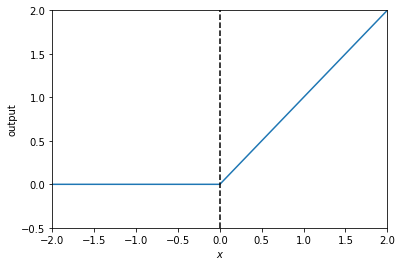
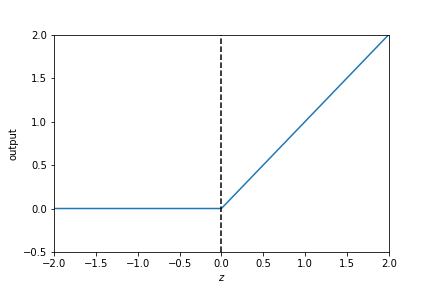
ANN text fixes

Changed region(s): [[0.0, 0.0301, 0.9851, 0.9624], [0.5075, 0.9624, 0.5373, 0.9925]]

diff --git a/ann.tex b/ann.tex
@@ -2,24 +2,25 @@
 \label{sec:artificial_neural_networks}
 % What is it
 Artificial neural networks are models that can approximate discrete-valued, real-valued and vector-valued functions.
-They are composed of simple units that can be activated by other units and can further activate multiple other units using connections of varying strength.
+They are composed of interconnected units that can activate others using connections of varying strength.
 %citation?
 Artificial neural networks are loosely inspired by biological neural networks, where these units are called neurons, which are connected by axons.\\
-The higher the strength, also called weight, between units, the more influence the unit has on the connected one. These strengths can be manually defined. However, thanks to a method called backpropagation, these weights can be learned systematically.
+The higher the strength, also called weight, of connections between units, the more influence the unit has on the next one. These strengths can be manually defined. However, thanks to a method called backpropagation, weights can be learned systematically.
 The combination of artificial neural networks and backpropagation led to successful applications, for example to recognize handwritten characters \citep{journals/neco/LeCunBDHHHJ89}, for face recognition \citep{cottrell1990extracting} and to recognize spoken words \citep{journals/nn/LangWH90}.
-However, they were also used for reinforcement learning, for example to learn to balance a pendulum \citep{anderson:ieeecsm89} or play Backgammon \citep{Tesauro:92}.
+However, early applications also include reinforcement learning, for example to learn to balance a pendulum \citep{anderson:ieeecsm89} or to play the game \textit{Backgammon} \citep{Tesauro:92}.
 
 \subsection{Basics} % (fold)
 \label{sub:basics}
-As said, artificial neural networks are made up of units. These units can be divided into layer, where the values of each layer are propagated to the next layer depending on connections with weights. These weights define the model. A simple artificial neural network is visualized in Figure~\ref{fig:ann}.
+As said, artificial neural networks are made up of units. These units can be divided into layers, where the values of each layer are propagated to the next layer depending on connections with weights. These weights define the model.
+Input units receive information that is available externally and provide information to other units. Output units are the opposite and receive information from the network itself and provide information externally. Hidden units both receive information from and provide information to units inside the network.\\
+A simple artificial neural network is visualized in Figure~\ref{fig:ann}.\\
 \begin{figure}[htb]
     \centering
     \includegraphics[width=.7\linewidth]{images/ann.png}
     \caption[An artificial neural network]{An artificial neural network with 3 input units, 4 hidden units and 2 output units. $w_{ih}$ and $w_{ho}$ are the weights for connections between respectively the input units and hidden units and between the hidden units and output units.}
     \label{fig:ann}
 \end{figure}
-Input units receive information that is available externally and provide information to other units. Output units are the opposite and receive information from the network itself and provide information externally. Hidden units both receive information from and provide information to units inside the network.\\
-As a non-input unit gets weighted activations from multiple units, these need to be combined to determine if the unit can be activated or not. This is done by applying a linear or non-linear function to the weighted sum.
+As a non-input unit gets weighted activations from multiple units, these need to be combined to determine if the unit can be activated or not. This is done by applying a linear or non-linear function, called an activation function, to the weighted sum.
 % subsection basics (end)
 
 \subsection{Activation functions} % (fold)
@@ -32,13 +33,15 @@ Or in vector format:
 \begin{equation}
     o = \phi(\overrightarrow{w} \cdot \overrightarrow{x})
 \end{equation}
+From hereon we will denote the weighted sum as $z \equiv \sum_i^n w_{ij} x_i \equiv \overrightarrow{w} \cdot \overrightarrow{x}$.\\
+
 Here, we will discuss the most commonly used activation functions.
 \subsubsection{Perceptron} % (fold)
 \label{ssub:perceptron}
 A perceptron, defined by \cite{Rosenblatt58}, gives as output either $-1$ or $+1$:
 \begin{equation}
-e_t(s) = \begin{cases}
-+1 & \text{if $\sum_i^n w_{ij} x_i > 0$}\\
+o(z) = \begin{cases}
++1 & \text{if $z> 0$}\\
 -1 & \text{otherwise}
 \end{cases}
 \end{equation}
@@ -50,22 +53,20 @@ A schematic using the perceptron function is shown in Figure~\ref{fig:perceptron
 \begin{figure}[htb]
     \centering
     \includegraphics[width=\linewidth]{images/activation_functions/perceptron.png}
-    \caption[Perceptron function applied to the inputs for a single unit]{Perceptron function applied to the inputs for a single unit.Source: \cite{Taspinar2016}.}
+    \caption[The perceptron function]{The perceptron function.}
     \label{fig:perceptron}
 \end{figure}
-
-For the definitions of the following activation functions, we will assume that $x$ is already the weighted sum of the input units.
 % subsubsection perceptron (end)
 
 \subsubsection{Sigmoid} % (fold)
 \label{ssub:sigmoid}
-A disadvantage of a perceptron is that it is not differentiable in the whole domain (specifically at $x=0$). Why this is a problem will become clear in Section~\ref{sub:gradient_descent_and_backpropagation}.\\
-To solve this problem, a sigmoid function is used. A sigmoid function is a differentiable function that is monotonically increasing approaches an asymptote for $x \to \pm\infty$ \citep{series/lncs/LeCunBOM12}. As a result, these can still separate the input space in 2 parts.\\
+A disadvantage of the perceptron function is that it is not differentiable in the whole domain (specifically at $x=0$). Why this is a problem will become clear in Section~\ref{sub:gradient_descent_and_backpropagation}.\\
+To solve this problem, a sigmoid function can be used. A sigmoid function is a differentiable function that is monotonically increasing and approaches an asymptote for $x \to \pm\infty$ \citep{series/lncs/LeCunBOM12}. As a result, these can still separate the input space in 2 parts.\\
 In the artificial neural networks domain, the \textit{sigmoid function} generally refers to a variation of the logistic function and is denoted by $\sigma(x)$. Its formula is:
 \begin{align}
     \begin{split}
-        f(x) &= \sigma(x)\\
-        &= \frac{1}{1+e^{-x}}
+        f(z) &= \sigma(z)\\
+        &= \frac{1}{1+e^{-z}}
     \end{split}
 \end{align}
 The behavior of this function is visualized in Figure~\ref{fig:sigmoid}.
@@ -79,13 +80,13 @@ The behavior of this function is visualized in Figure~\ref{fig:sigmoid}.
 
 \subsubsection{Hyperbolic tangent} % (fold)
 \label{ssub:hyperbolic_tangent}
-Another popular function and another kind of sigmoid function is the hyperbolic tangent function, also called \textit{tanh}. While the output of the sigmoid function ranges between $0$ and $1$, here the output ranges between $-1$ and $+1$, just like the 2 possible values of the perceptron.
+Another popular function and another kind of sigmoid function is the hyperbolic tangent function, also called \textit{tanh}. While the output of the sigmoid function ranges between $0$ and $+1$, here the output ranges between $-1$ and $+1$, just like the range (and the only possible values) of the perceptron.
 The formula of the hyperbolic tangent function, which can also be written in terms of the sigmoid function, is:
 \begin{align}
     \begin{split}
-        f(x) &= tanh(x)\\
-        &= 2\sigma(2x) - 1\\
-        &= \frac{e^{\frac{x}{2}} - e^{-\frac{x}{2}}}{e^{\frac{x}{2}} + e^{-\frac{x}{2}}}
+        f(z) &= tanh(z)\\
+        &= 2\sigma(2z) - 1\\
+        &= \frac{e^{\frac{z}{2}} - e^{-\frac{z}{2}}}{e^{\frac{z}{2}} + e^{-\frac{z}{2}}}
     \end{split}
 \end{align}
 This function is visualized in Figure~\ref{fig:tanh}.
@@ -99,14 +100,14 @@ This function is visualized in Figure~\ref{fig:tanh}.
 
 \subsubsection{Rectified Linear Unit} % (fold)
 \label{ssub:rectified_linear_unit}
-A rectified linear unit, also called a ReLU, is another popular and more recent activation function. It was first defined by \cite{conf/icml/NairH10}. The output is the identity function if $x \ge 0$ and $0$ otherwise:
+A rectified linear unit, also called a ReLU, is another popular and more recent activation function. It was first defined by \cite{conf/icml/NairH10}. The output is the identity function if $z \ge 0$ and $0$ otherwise:
 \begin{equation}
-    f(x) = \begin{cases}
-        x & \text{if $x \ge 0$}\\
+    f(z) = \begin{cases}
+        z & \text{if $z \ge 0$}\\
         0 & \text{otherwise}
         \end{cases}
 \end{equation}
-As can be seen, this function requires less computations than the sigmoid and hyperbolic tangent function. However, the derivative for $x<0$ is always $0$. Why this can be a problem is explained in Section~\ref{sub:gradient_descent_and_backpropagation}.\\
+As can be seen, this function requires less computations than the sigmoid and hyperbolic tangent function. However, the derivative for $z<0$ is always $0$. Why this can be a problem is also explained in Section~\ref{sub:gradient_descent_and_backpropagation}.\\
 The ReLU function is shown in Figure~\ref{fig:relu}.
 \begin{figure}[htb]
     \centering
@@ -115,11 +116,11 @@ The ReLU function is shown in Figure~\ref{fig:relu}.
     \label{fig:relu}
 \end{figure}
 
-To solve the problem of the derivative being zero at $x<0$, the Leaky ReLU was invented \citep{maas2013rectifier}. Here, instead of the output being zero for $x<0$, the output has a small slope, defined by a constant $\alpha$:
+To solve the problem of the derivative being zero at $z<0$, the Leaky ReLU was invented \citep{maas2013rectifier}. Here, instead of the output being zero for $z<0$, the output has a small slope, defined by a constant $\alpha$:
 \begin{equation}
-    f(x) = \begin{cases}
-        x & \text{if $x \ge 0$}\\
-        \alpha x & \text{otherwise}
+    f(z) = \begin{cases}
+        z & \text{if $z \ge 0$}\\
+        \alpha z & \text{otherwise}
         \end{cases}
 \end{equation}
 As can be seen, the derivative of this function is always non-zero.\\
@@ -135,24 +136,26 @@ An example of a Leaky ReLU is shown in Figure~\ref{fig:lrelu}.\\
 
 A variation of a Leaky ReLU, called Parametric Rectified Unit, also has a small slope for $x<0$, but with an $\alpha$ that can be learned \citep{journals/corr/HeZR015}. Other variants use a random slope for values below zero \citep{journals/corr/XuWCL15}, add noise a ReLU \citep{conf/icml/NairH10} or use an exponential function for values below zero \citep{journals/corr/ClevertUH15}:
 \begin{equation}
-    f(x) = \begin{cases}
-        x & \text{if $x \ge 0$}\\
-        \alpha (e^x-1) & \text{otherwise}
+    f(z) = \begin{cases}
+        z & \text{if $z \ge 0$}\\
+        \alpha (e^z-1) & \text{otherwise}
         \end{cases}
 \end{equation}
+
 %Optional: add softmax and maxout definitions
 
 \subsection{Gradient descent and backpropagation} % (fold)
 \label{sub:gradient_descent_and_backpropagation}
 %Also something about linearly separable?
 %Why no algebraic solution?
-If we choose the weights of our network correctly, we might succeed in the approximating a function.
-However, it is not always possible to separate the input space with our artificial neural network. In that case, we might want the best solution, e.g. one that has the least amount of errors in producing outputs w.r.t. the correct outputs, also called the target outputs. Furthermore, choosing the weights manually can be a tedious process.\\
+If we choose the weights of our network correctly, we might succeed in approximating a function.
+However, it is not always possible to separate the input space and have the right with our artificial neural network.
+In that case, we might want the best solution, e.g. one that has the least amount of errors in producing outputs w.r.t. the correct outputs, also called the target outputs. Furthermore, choosing the weights manually can be a tedious process.\\
 For these reasons, we use an algorithm called called backpropagation, which uses a variation of gradient descent. We will first discuss gradient descent as this provides the basis of the backpropagation algorithm.
 
 \subsubsection{Gradient descent} % (fold)
 \label{ssub:gradient_descent}
-In gradient descent, we search in the weight vector space, also called hypothesis space, to find weights that can approximate a function as best as possible. The tuple of the input and output of the target function is called a training example.
+In gradient descent, we search in the weight vector space, also called hypothesis space, to find weights that can approximate a function as best as possible. A tuple containing the input and output of the target function is called a training example.
 
 To be able to update weights, we first need to know how wrong our outputs were relative to those of our training examples.
 This is called the training error and depends on the learning algorithm (in our case an artificial neural network), its parameters and the training examples. However, here we assume that the learning algorithm and the training examples are fixed while learning.
@@ -160,19 +163,22 @@ A common measure for the training error is:
 \begin{equation}
     E(\overrightarrow{w}) \equiv \frac{1}{2} \sum_{i=0}^N (y_i - f(x_i;\overrightarrow{w}))^2
 \end{equation}
-Where $N$ is the number of training examples, $x_i$ is the input of a training example, $y_i$ is the target output of the training example and $f$ is our learning algorithm, which depends on the weight vector $\overrightarrow{w}$.
+Where $N$ is the number of training examples, $x_i$ is the input of a training example, $y_i$ is the target output of the training example and $f$ is our learning algorithm, which depends on the weight vector $\overrightarrow{w}$.\\
 
-Because we now know how the training error and the weight vector is related, we can compute the derivative of the training error $E$ with respect to each component of $\overrightarrow{w}$. This called the gradient and is denoted as $\nabla E(\overrightarrow{w})$:
+Because we now know how the training error and the weight vector are related, we can compute the derivative of the training error $E$ with respect to each component of $\overrightarrow{w}$. This called the gradient and is denoted as $\nabla E(\overrightarrow{w})$:
 \begin{equation}
     \nabla E(\overrightarrow{w}) \equiv \left [ \frac{\partial E}{\partial w_0}, \frac{\partial E}{\partial w_1}, \dots, \frac{\partial E}{\partial w_n} \right ]
 \end{equation}
-Where $n$ is the number of components in $\overrightarrow{w}$. Note $\nabla E(\overrightarrow{w})$ is also a vector. It defines how to change the weight components in order to get the steepest increase in the training error $E$. Thus, if we negate the gradient, we get the steepest decrease in $E$. Thus, we can update the weight vector as such:
+Where $n$ is the number of components in $\overrightarrow{w}$. Note that $\nabla E(\overrightarrow{w})$ is also a vector. It defines how to change the weight components in order to get the steepest increase in the training error $E$. Thus, if we negate the gradient, we get the steepest decrease in $E$. We can then update the weight vector as such:
 \begin{equation}
     \overrightarrow{w} \gets \overrightarrow{w} - \eta \nabla E(\overrightarrow{w})
 \end{equation}
-Where $\eta$ is a positive value called the learning rate and influences how big the changes to the weight vector are.
-\todo{Define (local) minimum. Also add figure?}
-A small value leads to slow convergence, while a high value can cause the algorithm to overstep a local minimum. Because of this, the some algorithms gradually decrease the learning rate as the number of weight updates grows.\\
+Where $\eta$ is a positive value called the learning rate, which influences how big the changes to the weight vector are.\\
+
+\todo{Add figure?}
+The goal is to set the weights to such values so that the error is minimized. However, it is possible that any change in weights increases the error. Thus, with the current algorithm, there is no incentive to change the weights. Although the algorithm cannot "see" immediate improvements, it is possible that another combination of weight values leads to a lower error. This is analogous to being in a valley in the mountains, where the valley after a mountain (and thus not visible) may lie lower.\\
+
+A small value of $\eta$ leads to slow convergence, while a high value can cause the algorithm to overstep a local minimum. Because of this, the some algorithms gradually decrease the learning rate as the number of weight updates grows.\\
 For a single weight component, we get:
 \begin{equation}
     \label{eq:weightcomponentupdate}
